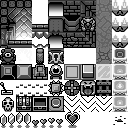
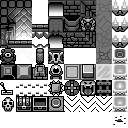
Migrate game to dark color scheme, develop mockups.
created mockup for Title Screen, with titleWidget.
updated Inventory Screen mockup.
created Summary Screen mockup.
updated Vendor Screen mockup.
updated MainSheet with all menuItem icons required by titleWidget and optionsWidget.
updated DungeonSheet.

changed background color to black
changed debug background color to dark gray

Changed region(s): [[0.0, 0.875, 0.625, 1.0]]

diff --git a/GameClasses/DataClasses.cs b/GameClasses/DataClasses.cs
@@ -492,9 +492,9 @@ namespace DungeonRun
 
     public class ColorScheme
     {
-        public Color background = new Color(100, 100, 100, 255);
+        public Color background = new Color(0, 0, 0, 255);
         public Color overlay = new Color(0, 0, 0, 255);
-        public Color debugBkg = new Color(0, 0, 0, 200);
+        public Color debugBkg = new Color(20, 20, 20, 255);
 
         public Color collision = new Color(100, 0, 0, 50);
         public Color interaction = new Color(0, 100, 0, 50);
